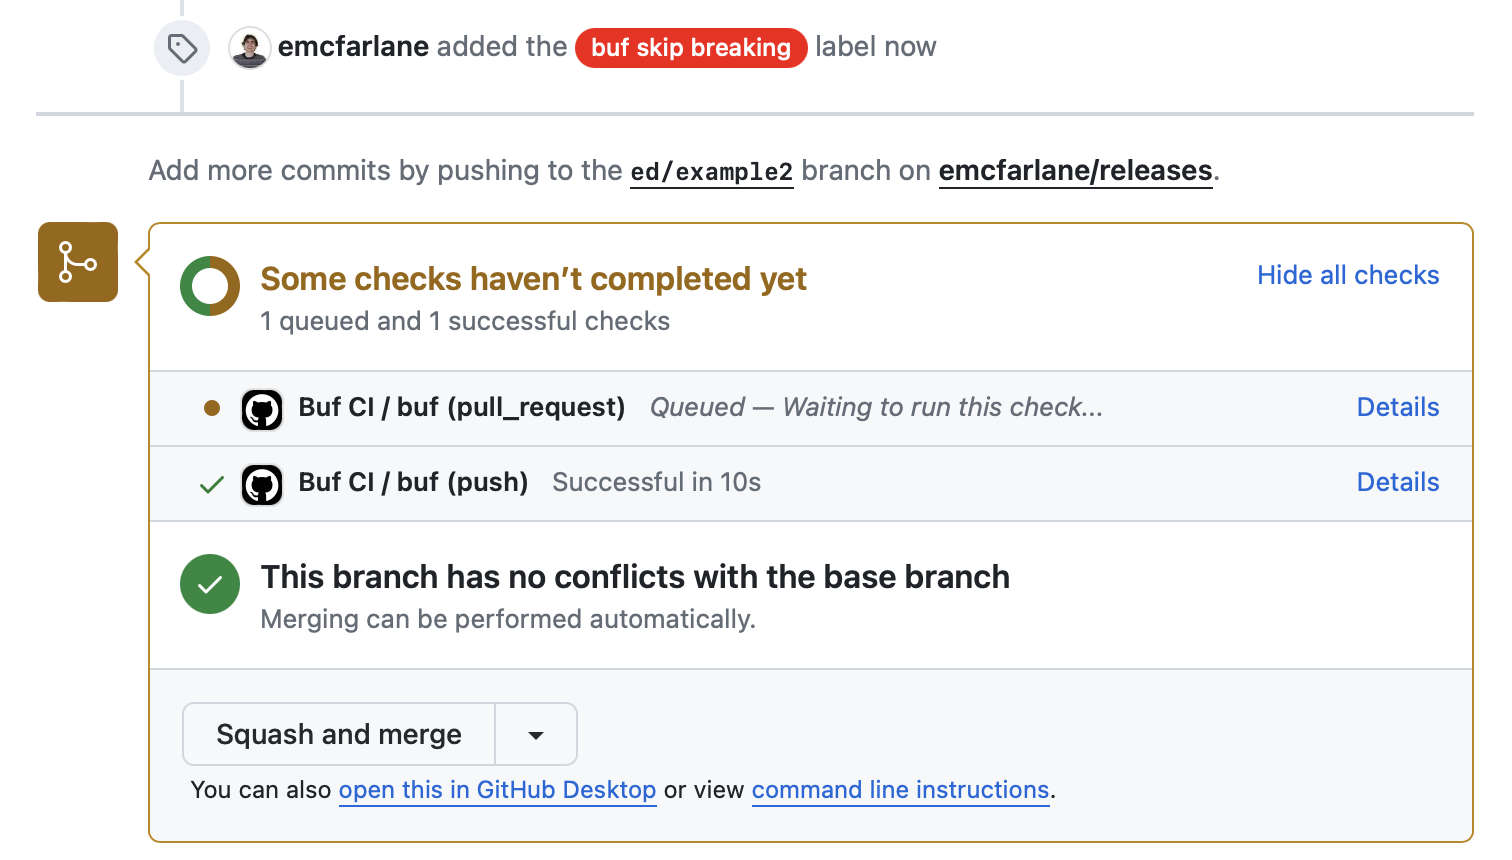
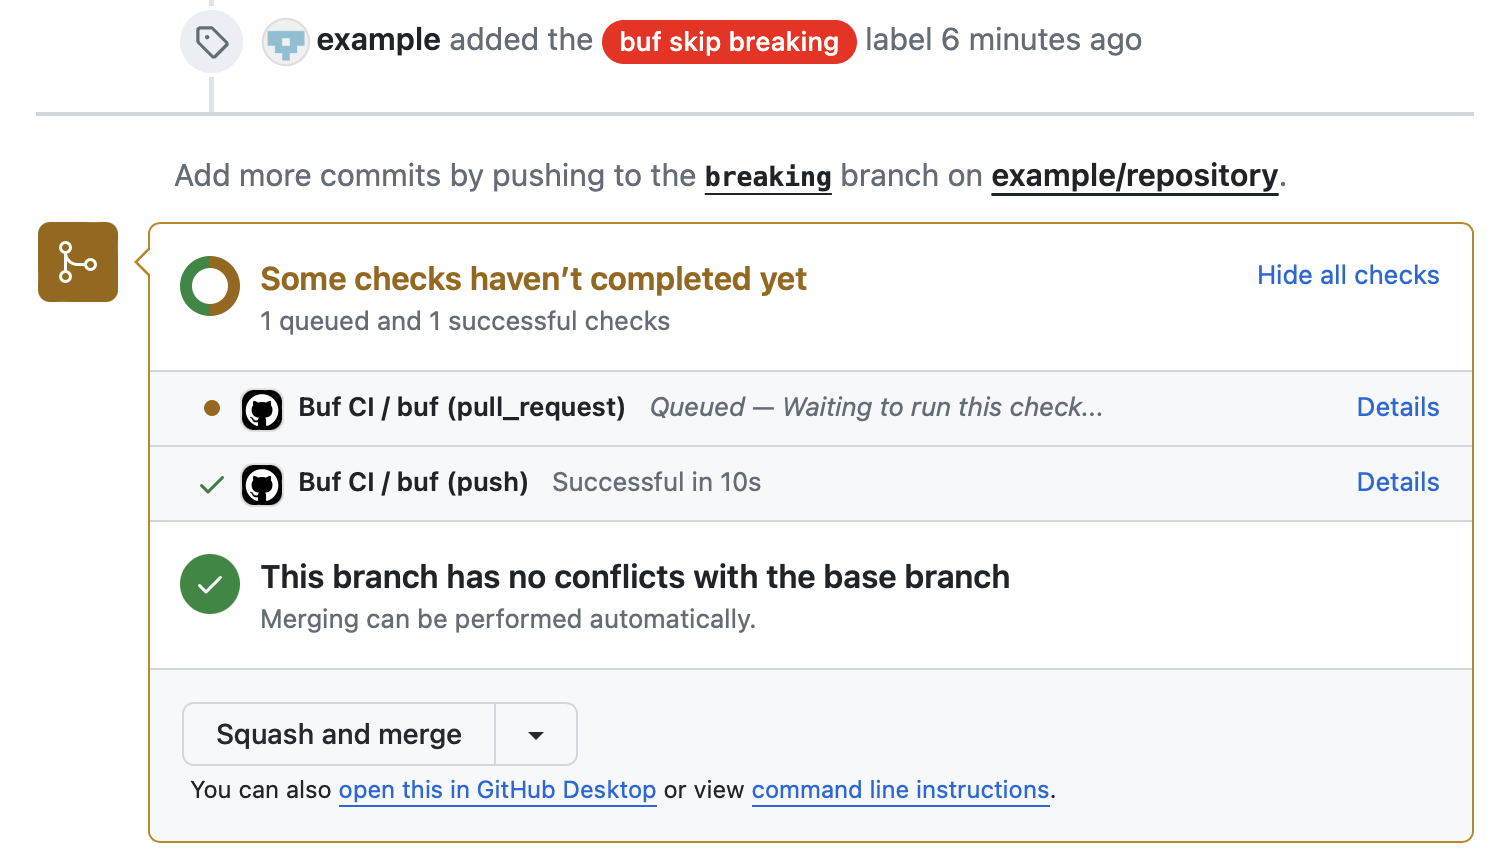
Improve example image

Changed region(s): [[0.0933, 0.1814, 0.8393, 0.2419], [0.0933, 0.0, 0.7771, 0.0907], [0.1243, 0.0907, 0.1554, 0.1209]]

diff --git a/README.md b/README.md
@@ -57,6 +57,12 @@ The default behavior of this action is the recommended workflow for a GitHub rep
 To customize the behavior of the action, you can set the following inputs in the workflow file.
 Add these inputs under the `with` section of the `uses` step in the workflow file.
 
+```yaml
+- uses: bufbuild/buf-action@v0.1
+  with:
+    ...
+```
+
 | Parameter                       | Description                                        | Default            |
 |:--------------------------------|:---------------------------------------------------|:-------------------|
 | `version`                       | Version of the `buf` CLI to use. | Latest [version][buf-releases] |
